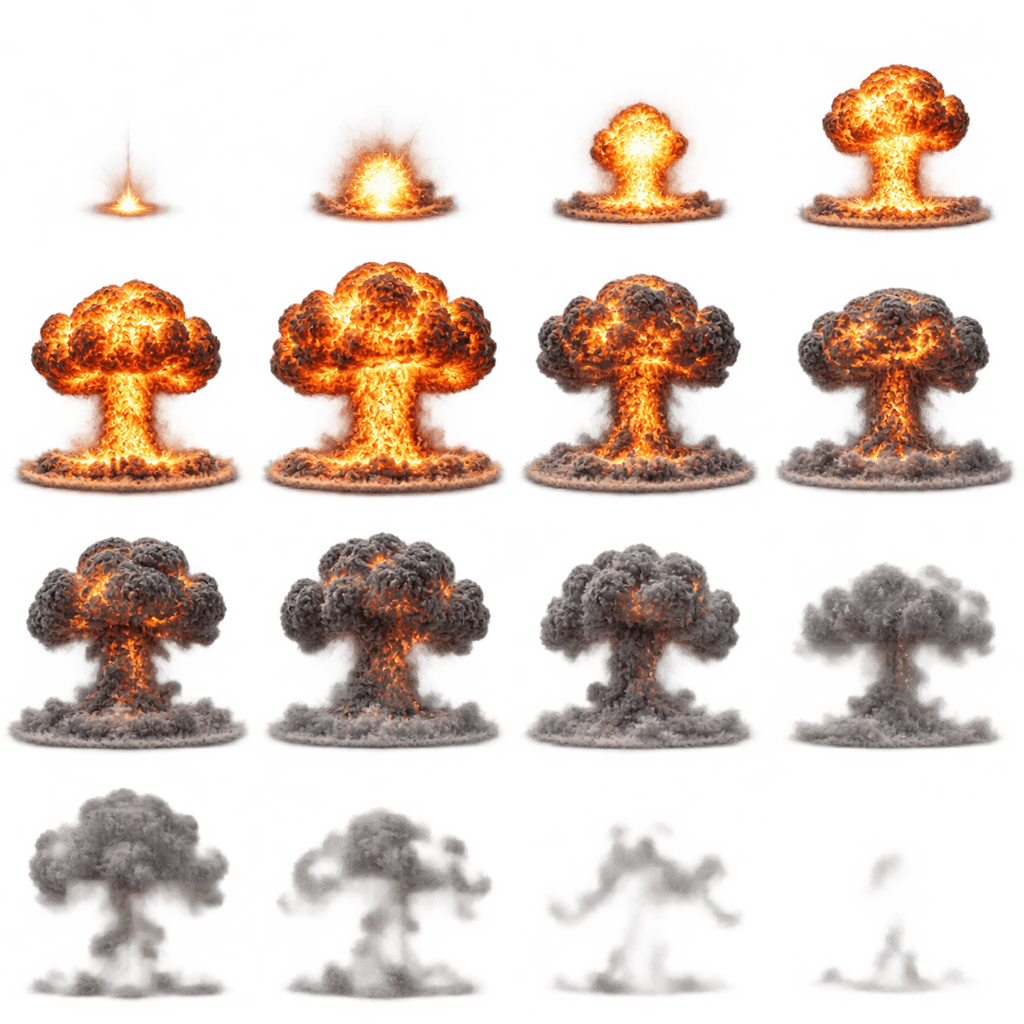
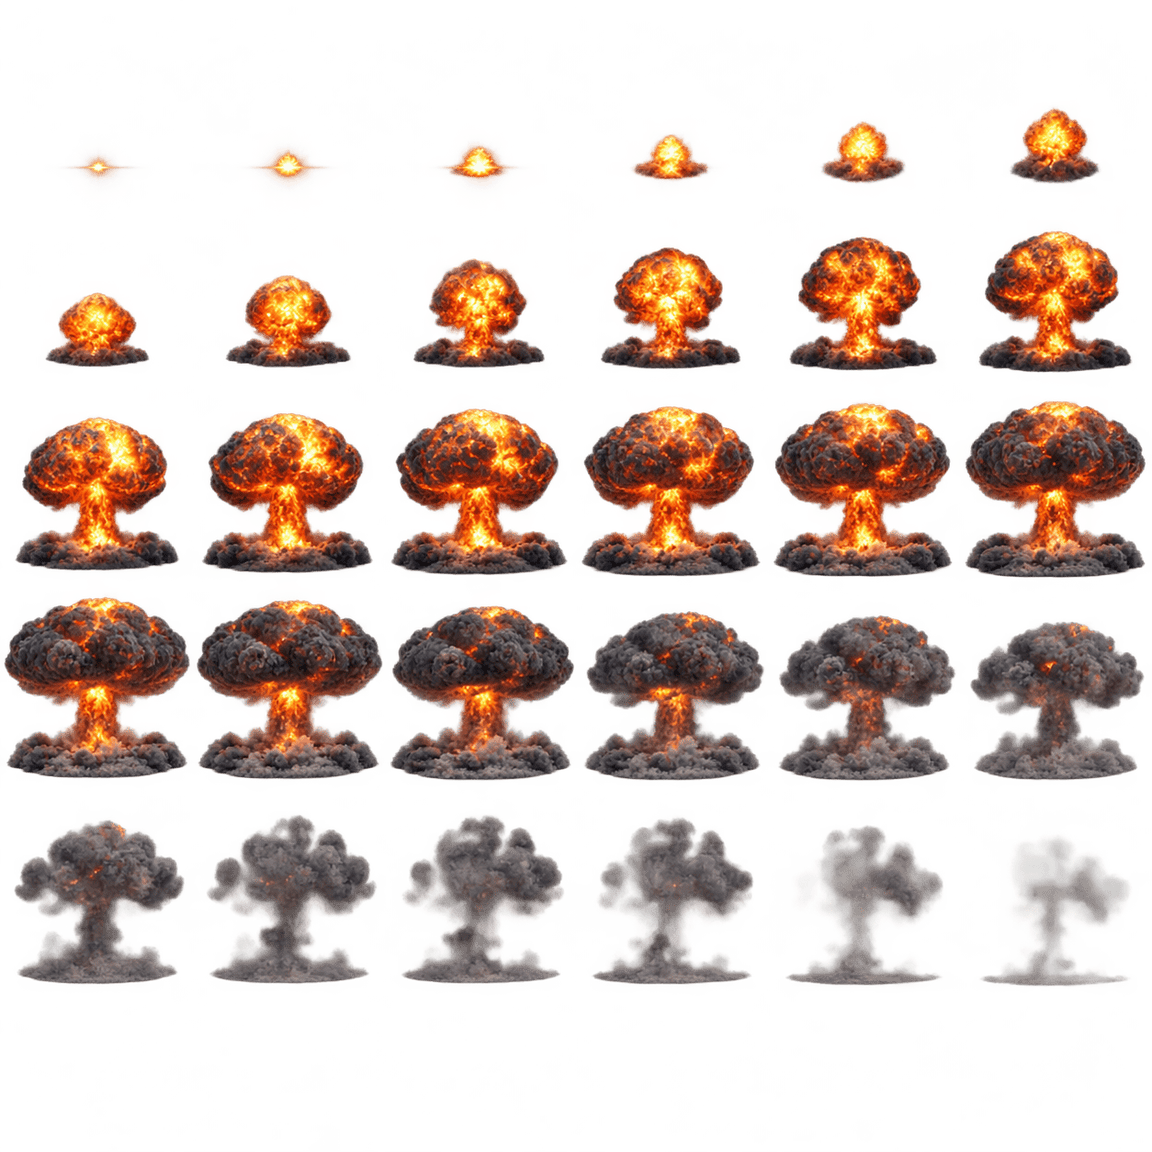
36-frame explosion sheets (sparks, heavy fireball, fire wave, dirt impact, mushroom cloud); per-sheet grid

diff --git a/game/src/effects.ts b/game/src/effects.ts
@@ -280,11 +280,11 @@ export class CoinShower extends Container implements Shower {
 function animatedBlast(layer: Container, kind: BlastKind, x: number, y: number, width: number): boolean {
   if (liveBlasts >= MAX_BLASTS) return true;
   liveBlasts++;
-  const frames = kindFrames[kind]!;
+  const { frames, fill } = kindFrames[kind]!;
   const k = KIND[kind];
   const blast = new AnimatedSprite({ textures: frames, anchor: { x: k.anchor[0], y: k.anchor[1] }, autoUpdate: true });
   blast.position.set(x, y);
-  const scale = width / frames[0].width;
+  const scale = width / (frames[0].width * fill);
   blast.scale.set(Math.random() < 0.5 ? -scale : scale, scale);
   blast.loop = false;
   blast.animationSpeed = frames.length / (k.life * 1.3 * 60);   // the frames over the kind's life (a little slower: they are real fire)
@@ -310,14 +310,20 @@ let kindArt: Partial<Record<BlastKind, Texture>> = {};
 export function setBlastKinds(art: Partial<Record<BlastKind, Texture>>): void {
   kindArt = art;
 }
-/** Animated explosions: per kind, the frames of its sprite sheet (16, a 4x4 grid, read left to right, top to bottom). */
-let kindFrames: Partial<Record<BlastKind, Texture[]>> = {};
-export function setBlastSheets(sheets: Partial<Record<BlastKind, Texture>>): void {
+/**
+ * Animated explosions: per kind, the frames of its sprite sheet (a square grid, read left to right, top to bottom),
+ * and how much of a frame its fire fills (a 6x6 sheet draws its fire smaller in each frame).
+ */
+let kindFrames: Partial<Record<BlastKind, { frames: Texture[]; fill: number }>> = {};
+export function setBlastSheets(sheets: Partial<Record<BlastKind, { sheet: Texture; grid: number }>>): void {
   kindFrames = {};
-  for (const [kind, sheet] of Object.entries(sheets) as [BlastKind, Texture][]) {
-    const w = sheet.frame.width / 4, h = sheet.frame.height / 4;
-    kindFrames[kind] = Array.from({ length: 16 }, (_, i) => new Texture({
-      source: sheet.source, frame: new Rectangle(sheet.frame.x + (i % 4) * w, sheet.frame.y + Math.floor(i / 4) * h, w, h) }));
+  for (const [kind, { sheet, grid }] of Object.entries(sheets) as [BlastKind, { sheet: Texture; grid: number }][]) {
+    const w = sheet.frame.width / grid, h = sheet.frame.height / grid;
+    kindFrames[kind] = {
+      fill: grid >= 6 ? 0.78 : 0.9,
+      frames: Array.from({ length: grid * grid }, (_, i) => new Texture({
+        source: sheet.source, frame: new Rectangle(sheet.frame.x + (i % grid) * w, sheet.frame.y + Math.floor(i / grid) * h, w, h) })),
+    };
   }
 }
 /** How each kind stands and moves: where it touches the point (anchor), how much it grows, how long it lasts. */

diff --git a/game/src/theme.ts b/game/src/theme.ts
@@ -72,8 +72,8 @@ export interface Theme {
   console: { drop: string; panel: string; key: string; back: string | null } | null;
   /** a photo explosion (fireball, ground dust ring, smoke plume) for every blast, or null: drawn in code */
   blast: { fire: string; dust: string; smoke: string; kinds: Partial<Record<BlastName, string>>;
-    /** animated explosions: per kind, a sprite sheet of 16 frames (4x4) */
-    sheets: Partial<Record<BlastName, string>> } | null;
+    /** animated explosions: per kind, a sprite sheet (a square grid of frames, `grids` per kind, 4 when not given) */
+    sheets: Partial<Record<BlastName, string>>; grids: Partial<Record<BlastName, number>> } | null;
   landscapeExitFromPortrait: boolean;
   /** Looping, muted background videos (landscape / portrait) played over the still backgrounds once they run. */
   video: { wide: string | null; tall: string | null };
@@ -155,7 +155,13 @@ function readBlast(json: unknown): Theme['blast'] {
     }
     return out;
   };
-  return fire && dust && smoke ? { fire, dust, smoke, kinds: files(b.kinds), sheets: files(b.sheets) } : null;
+  const g = (b.grids ?? {}) as Record<string, unknown>;
+  const grids: Partial<Record<BlastName, number>> = {};
+  for (const name of BLAST_NAMES) {
+    const n = g[name];
+    if (typeof n === 'number' && Number.isInteger(n) && n >= 2 && n <= 8) grids[name] = n;
+  }
+  return fire && dust && smoke ? { fire, dust, smoke, kinds: files(b.kinds), sheets: files(b.sheets), grids } : null;
 }
 
 function readConsole(json: unknown): Theme['console'] {

diff --git a/game/src/main.ts b/game/src/main.ts
@@ -199,7 +199,8 @@ async function start(): Promise<void> {
   setSpinMark(theme.wheel.spinMark ? tex(theme.wheel.spinMark) : null);
   setBlastArt(theme.blast ? { fire: tex(theme.blast.fire), dust: tex(theme.blast.dust), smoke: tex(theme.blast.smoke) } : null);
   setBlastKinds(Object.fromEntries(Object.entries(theme.blast?.kinds ?? {}).map(([kind, file]) => [kind, tex(file)])));
-  setBlastSheets(Object.fromEntries(Object.entries(theme.blast?.sheets ?? {}).map(([kind, file]) => [kind, tex(file)])));
+  setBlastSheets(Object.fromEntries(Object.entries(theme.blast?.sheets ?? {}).map(([kind, file]) =>
+    [kind, { sheet: tex(file), grid: theme.blast?.grids[kind as keyof typeof theme.blast.grids] ?? 4 }])));
   initSounds(theme.path, theme.sounds);
 
   const app = new Application();
